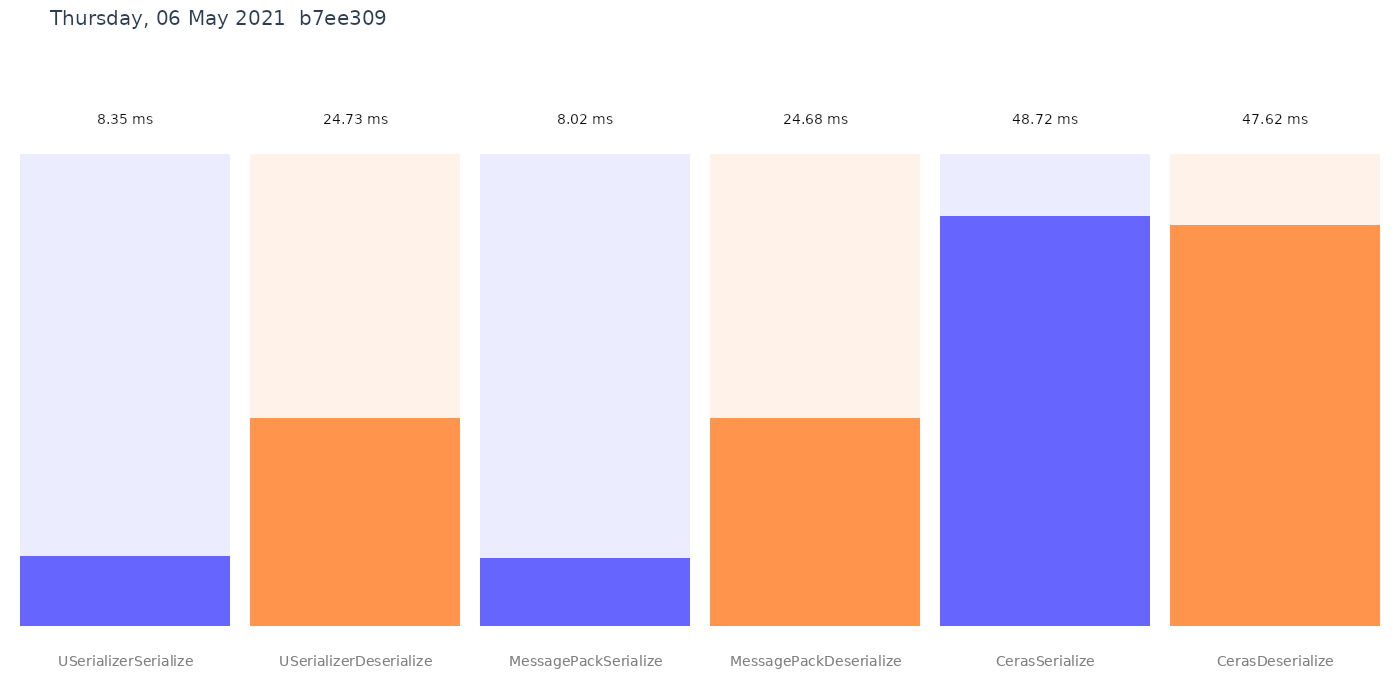
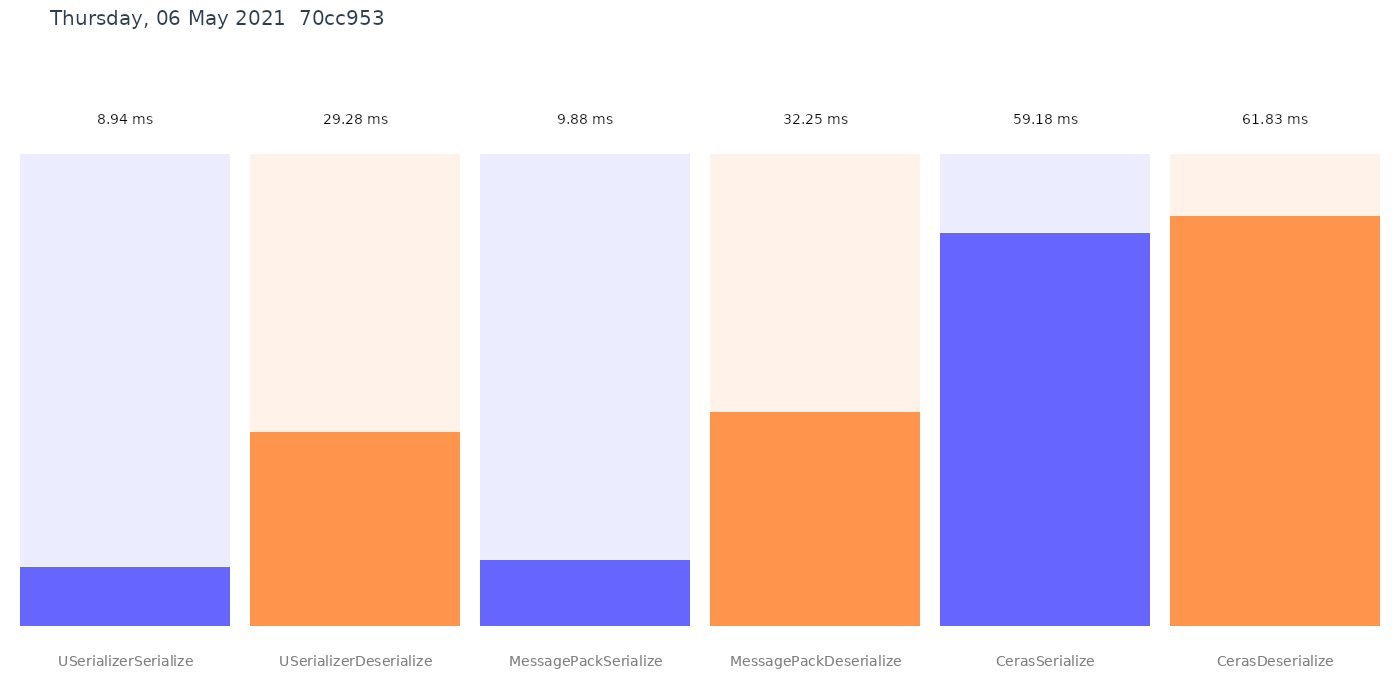
deploy: 70cc953d030a433b4077cf62422cc487cc8ff82e

diff --git a/performance.md b/performance.md
@@ -1,7 +1,7 @@
 ``` ini
 
 BenchmarkDotNet=v0.12.1, OS=ubuntu 20.04
-Intel Xeon Platinum 8272CL CPU 2.60GHz, 1 CPU, 2 logical and 2 physical cores
+Intel Xeon CPU E5-2673 v3 2.40GHz, 1 CPU, 2 logical and 2 physical cores
 .NET Core SDK=5.0.202
   [Host]   : .NET Core 5.0.5 (CoreCLR 5.0.521.16609, CoreFX 5.0.521.16609), X64 RyuJIT
   ShortRun : .NET Core 5.0.5 (CoreCLR 5.0.521.16609, CoreFX 5.0.521.16609), X64 RyuJIT
@@ -12,9 +12,9 @@ WarmupCount=3
 ```
 |                 Method |      Mean |     Error |    StdDev |
 |----------------------- |----------:|----------:|----------:|
-|   USerializerSerialize |  8.354 ms | 0.0667 ms | 0.0037 ms |
-| USerializerDeserialize | 24.735 ms | 3.2500 ms | 0.1781 ms |
-|   MessagePackSerialize |  8.022 ms | 0.0215 ms | 0.0012 ms |
-| MessagePackDeserialize | 24.679 ms | 6.9685 ms | 0.3820 ms |
-|         CerasSerialize | 48.719 ms | 1.6541 ms | 0.0907 ms |
-|       CerasDeserialize | 47.621 ms | 3.3666 ms | 0.1845 ms |
+|   USerializerSerialize |  8.943 ms |  2.677 ms | 0.1467 ms |
+| USerializerDeserialize | 29.283 ms | 10.862 ms | 0.5954 ms |
+|   MessagePackSerialize |  9.879 ms |  3.510 ms | 0.1924 ms |
+| MessagePackDeserialize | 32.249 ms |  6.873 ms | 0.3767 ms |
+|         CerasSerialize | 59.182 ms | 16.284 ms | 0.8926 ms |
+|       CerasDeserialize | 61.825 ms |  7.796 ms | 0.4273 ms |
